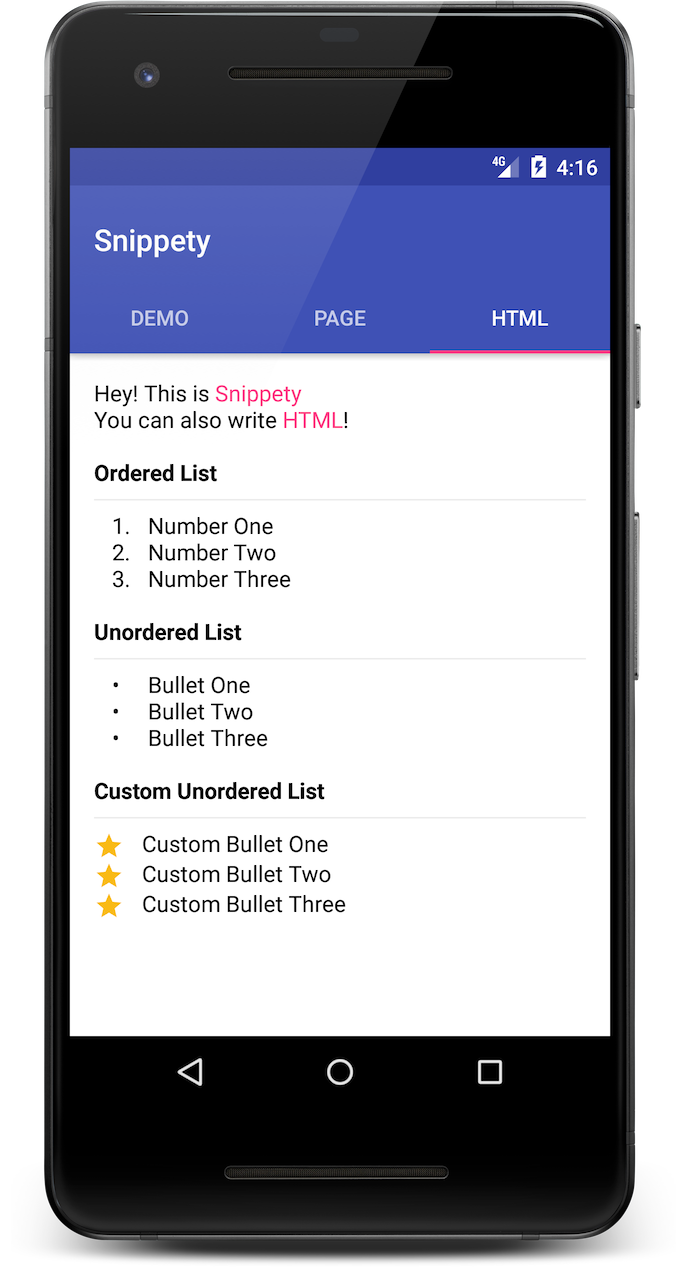
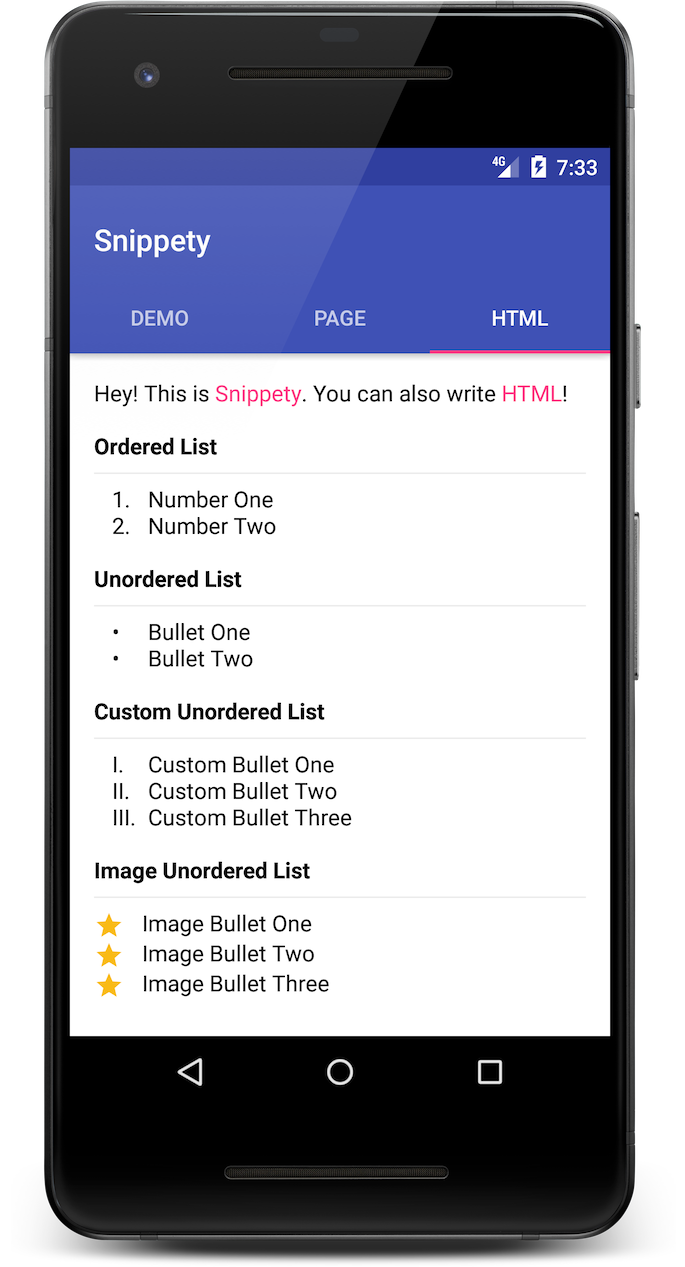
feat(*): add custom bullet

Changed region(s): [[0.1226, 0.4925, 0.4905, 0.8003], [0.1226, 0.3078, 0.8277, 0.4617], [0.7971, 0.1231, 0.8891, 0.1539]]

diff --git a/sample/src/main/java/com/fueled/snippety/sample/fragment/HtmlFragment.java b/sample/src/main/java/com/fueled/snippety/sample/fragment/HtmlFragment.java
@@ -63,7 +63,7 @@ public class HtmlFragment extends Fragment {
 
         return new Truss()
 
-                .appendSelectiveln("Hey! This is Snippety", "Snippety",
+                .appendSelective("Hey! This is Snippety. ", "Snippety",
                         new Snippety().textColor(colorAccent))  //  ForegroundColorSpan
                 .appendDelimiterizedln("You can also write `HTML`!", "`",
                         new Snippety().textColor(colorAccent))  //  ForegroundColorSpan
@@ -76,7 +76,6 @@ public class HtmlFragment extends Fragment {
 
                 .appendln("Number One", new Snippety().number(leadGap, gapWidth, 1))    //  TextIndentSpan
                 .appendln("Number Two", new Snippety().number(leadGap, gapWidth, 2))
-                .appendln("Number Three", new Snippety().number(leadGap, gapWidth, 3))
                 .appendln()
 
                 // Unordered List
@@ -86,7 +85,6 @@ public class HtmlFragment extends Fragment {
 
                 .appendln("Bullet One", new Snippety().bullet(leadGap, gapWidth))               //  TextIndentSpan
                 .appendln("Bullet Two", new Snippety().bullet(leadGap, gapWidth))
-                .appendln("Bullet Three", new Snippety().bullet(leadGap, gapWidth))
                 .appendln()
 
                 // Custom Unordered List
@@ -94,9 +92,19 @@ public class HtmlFragment extends Fragment {
                 .appendln("Custom Unordered List", new Snippety().fontStyle(Snippety.FontStyle.BOLD))
                 .appendln(new Snippety().hr(oneDp, colorGrey))
 
-                .appendln("Custom Bullet One", new Snippety().imageBullet(bitmap, leadGap))     //  IconMarginSpan
-                .appendln("Custom Bullet Two", new Snippety().imageBullet(bitmap, leadGap))
-                .appendln("Custom Bullet Three", new Snippety().imageBullet(bitmap, leadGap))
+                .appendln("Custom Bullet One", new Snippety().bullet(leadGap, gapWidth, "I."))     //  TextIndentSpan
+                .appendln("Custom Bullet Two", new Snippety().bullet(leadGap, gapWidth, "II."))
+                .appendln("Custom Bullet Three", new Snippety().bullet(leadGap, gapWidth, "III."))
+                .appendln()
+
+                // Image Unordered List
+
+                .appendln("Image Unordered List", new Snippety().fontStyle(Snippety.FontStyle.BOLD))
+                .appendln(new Snippety().hr(oneDp, colorGrey))
+
+                .appendln("Image Bullet One", new Snippety().bullet(bitmap, leadGap))           //  IconMarginSpan
+                .appendln("Image Bullet Two", new Snippety().bullet(bitmap, leadGap))
+                .appendln("Image Bullet Three", new Snippety().bullet(bitmap, leadGap))
                 .appendln()
 
                 .build();

diff --git a/snippety/src/main/java/com/fueled/snippety/core/Snippety.java b/snippety/src/main/java/com/fueled/snippety/core/Snippety.java
@@ -7,6 +7,7 @@ import android.text.Layout;
 import android.text.style.AbsoluteSizeSpan;
 import android.text.style.AlignmentSpan;
 import android.text.style.BackgroundColorSpan;
+import android.text.style.BulletSpan;
 import android.text.style.ClickableSpan;
 import android.text.style.ForegroundColorSpan;
 import android.text.style.IconMarginSpan;
@@ -309,6 +310,16 @@ public class Snippety {
     }
 
     /**
+     * add image bullets with specified padding
+     *
+     * @return Snippety
+     */
+    public Snippety bullet() {
+        spans.add(new BulletSpan());
+        return this;
+    }
+
+    /**
      * add bullets with specified leadGap and gapWidth
      *
      * @param leadGap  starting gap from left
@@ -321,13 +332,26 @@ public class Snippety {
     }
 
     /**
+     * add custom bullets with specified leadGap and gapWidth
+     *
+     * @param leadGap  starting gap from left
+     * @param gapWidth gap between bullet and text
+     * @param data data to show on bullet
+     * @return Snippety
+     */
+    public Snippety bullet(int leadGap, int gapWidth, String data) {
+        spans.add(new TextIndentSpan(new TextIndentSpan.Options(leadGap, gapWidth), data));
+        return this;
+    }
+
+    /**
      * add image bullets with specified padding
      *
      * @param bitmap  bitmap to add as bullet
      * @param padding padding between bullet and text
      * @return Snippety
      */
-    public Snippety imageBullet(Bitmap bitmap, int padding) {
+    public Snippety bullet(Bitmap bitmap, int padding) {
         spans.add(new IconMarginSpan(bitmap, padding));
         return this;
     }
@@ -340,6 +364,18 @@ public class Snippety {
      */
     public Snippety bullet(TextIndentSpan.Options options) {
         spans.add(new TextIndentSpan(options));
+        return this;
+    }
+
+    /**
+     * add bullets with specified options
+     *
+     * @param options for leadGap and gapWidth
+     * @param data data to show on bullet
+     * @return Snippety
+     */
+    public Snippety bullet(TextIndentSpan.Options options, String data) {
+        spans.add(new TextIndentSpan(options, data));
         return this;
     }
 

diff --git a/snippety/src/main/java/com/fueled/snippety/span/TextIndentSpan.java b/snippety/src/main/java/com/fueled/snippety/span/TextIndentSpan.java
@@ -4,6 +4,7 @@ import android.graphics.Canvas;
 import android.graphics.Paint;
 import android.graphics.Typeface;
 import android.text.Layout;
+import android.text.TextPaint;
 import android.text.style.LeadingMarginSpan;
 
 /**
@@ -36,7 +37,7 @@ public class TextIndentSpan implements LeadingMarginSpan {
     public void drawLeadingMargin(Canvas c, Paint p, int x, int dir, int top, int baseline,
                                   int bottom, CharSequence text, int start, int end, boolean first, Layout l) {
         if (first) {
-            Paint paint = new Paint(p);
+            TextPaint paint = new TextPaint(p);
 
             paint.setStyle(Paint.Style.FILL);
 

diff --git a/README.md b/README.md
@@ -260,7 +260,6 @@ int gapWidth = getResources().getDimensionPixelOffset(R.dimen.space_xlarge);
 textView.setText(new Truss()
         .appendln("Number One", new Snippety().number(leadGap, gapWidth, 1))
         .appendln("Number Two", new Snippety().number(leadGap, gapWidth, 2))
-        .appendln("Number Three", new Snippety().number(leadGap, gapWidth, 3))
         .build());
 ```
 
@@ -272,20 +271,29 @@ int gapWidth = getResources().getDimensionPixelOffset(R.dimen.space_xlarge);
 textView.setText(new Truss()
         .appendln("Number One", new Snippety().bullet(leadGap, gapWidth))
         .appendln("Number Two", new Snippety().bullet(leadGap, gapWidth))
-        .appendln("Number Three", new Snippety().bullet(leadGap, gapWidth))
         .build());
 ```
 
 - Custom Unordered List
 
 ```java
+int leadGap = getResources().getDimensionPixelOffset(R.dimen.space_medium);
+int gapWidth = getResources().getDimensionPixelOffset(R.dimen.space_xlarge);
+textView.setText(new Truss()
+        .appendln("Custom Bullet One", new Snippety().bullet(bitmap, leadGap, "I."))
+        .appendln("Custom Bullet Two", new Snippety().bullet(bitmap, leadGap, "II."))
+        .build());
+```
+
+- Image Unordered List
+
+```java
 Drawable drawable = ContextCompat.getDrawable(getContext(), R.mipmap.ic_launcher);
 Bitmap bitmap = BitmapFactory.decodeResource(getResources(), R.drawable.ic_star_black_24dp);
 int leadGap = getResources().getDimensionPixelOffset(R.dimen.space_medium);
 textView.setText(new Truss()
-        .appendln("Custom Bullet One", new Snippety().imageBullet(bitmap, leadGap))
-        .appendln("Custom Bullet Two", new Snippety().imageBullet(bitmap, leadGap))
-        .appendln("Custom Bullet Three", new Snippety().imageBullet(bitmap, leadGap))
+        .appendln("Image Bullet One", new Snippety().bullet(bitmap, leadGap))
+        .appendln("Image Bullet Two", new Snippety().bullet(bitmap, leadGap))
         .build());
 ```
 
